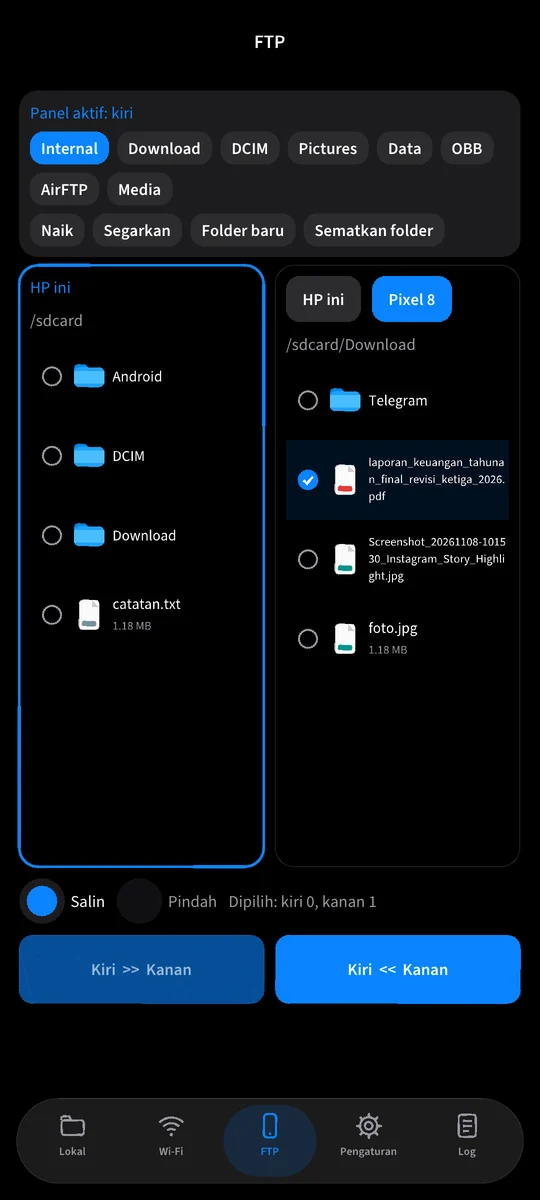
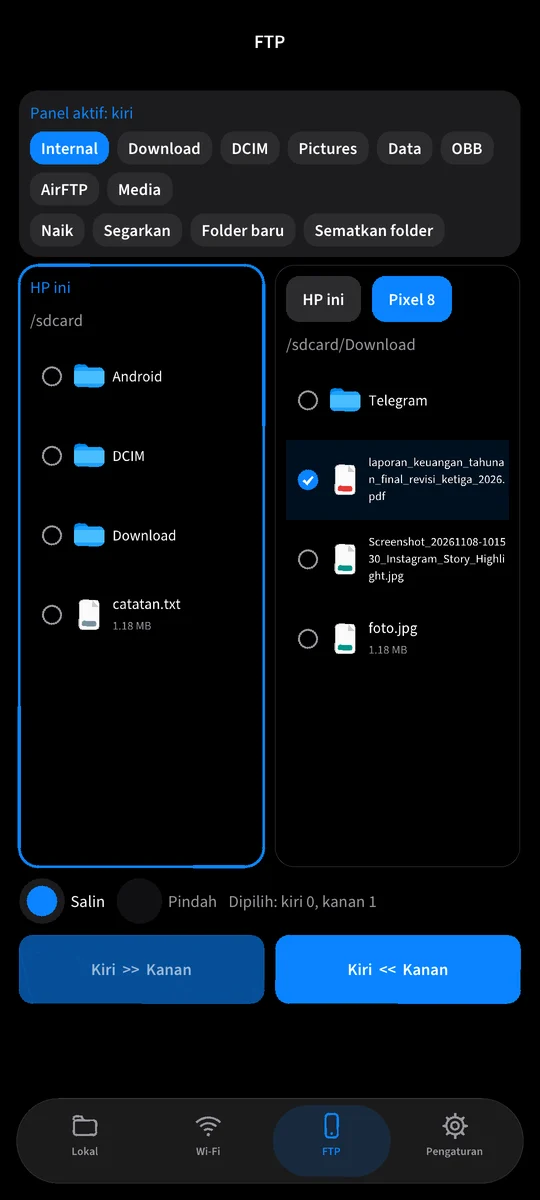
Rilis v1.2: versi, catatan rilis, screenshot docs
Claude-Session: https://claude.ai/code/session_019ZJndj3NzNYWeiDJfLMQmr

diff --git a/app/src/main/cpp/i18n.cpp b/app/src/main/cpp/i18n.cpp
@@ -496,6 +496,10 @@ const Pair kEn[] = {
     {"FTP dua panel, file manager multi-tab, pratinjau gambar, arsip ZIP", "Two-pane FTP, multi-tab file manager, image preview, ZIP archives"},
     {"Pasang APK/XAPK/APKS/APKM, cadangkan aplikasi, akses Android/data lewat Shizuku", "Install APK/XAPK/APKS/APKM, back up apps, reach Android/data through Shizuku"},
     {"Tema terang dan gelap, Bahasa Indonesia dan Inggris", "Light and dark themes, Indonesian and English"},
+    {"Dialog kaca", "Glass dialogs"},
+    {"Menu dan dialog jadi kaca transparan dengan blur", "Menus and dialogs are now translucent glass with blur"},
+    {"Tab Log dan terminal dihapus, bar bawah kini empat tab", "The Log tab and terminal are gone, the bottom bar now has four tabs"},
+    {"Dialog input, konfirmasi, dan pembaruan mengikuti tema terang atau gelap", "Input, confirmation and update dialogs follow the light or dark theme"},
 };
 
 struct Table { const char* code; const char* name; const Pair* pairs; size_t n; };

diff --git a/app/src/main/cpp/native-lib.cpp b/app/src/main/cpp/native-lib.cpp
@@ -22,7 +22,7 @@
 #include "i18n.h"
 
 namespace {
-constexpr const char* kVersion = "v1.1";
+constexpr const char* kVersion = "v1.2";
 
 std::string urlEncode(const std::string& in) {
     static const char* hex = "0123456789ABCDEF";
@@ -339,7 +339,11 @@ const std::vector<Rilis> kRilis = {
       "File manager punya mode daftar dan grid, folder biru, dan kolom cari",
       "Tab file manager jadi chip di bawah header; bilah aksi melayang untuk item terpilih",
       "Menu tekan-lama lebih bulat, tema gelap dirapikan",
-      "Ikon aplikasi baru"}}
+      "Ikon aplikasi baru"}},
+    {"v1.2", "Dialog kaca", "20 Nov 2026",
+     {"Menu dan dialog jadi kaca transparan dengan blur",
+      "Tab Log dan terminal dihapus, bar bawah kini empat tab",
+      "Dialog input, konfirmasi, dan pembaruan mengikuti tema terang atau gelap"}}
 };
 
 const std::vector<const char*> kBatasan = {

diff --git a/README.md b/README.md
@@ -180,7 +180,7 @@ Workflow `.github/workflows/release.yml` membangun APK **bertanda tangan** dan m
    base64 -w0 release.jks
    ```
 2. Tambahkan secrets repo: `KEYSTORE_BASE64`, `KEYSTORE_PASSWORD`, `KEY_ALIAS`, `KEY_PASSWORD`.
-3. Rilis: `git tag v1.1 && git push origin v1.1` (atau jalankan manual dari tab Actions).
+3. Rilis: `git tag v1.2 && git push origin v1.2` (atau jalankan manual dari tab Actions).
 
 `versionName` diambil dari nama tag, `versionCode` dari nomor run. Tag berisi `alpha`, `beta`, atau `rc`
 ditandai pre-release. Catatan rilis diambil dari bagian yang cocok di `CHANGELOG.md`.

diff --git a/CHANGELOG.md b/CHANGELOG.md
@@ -2,6 +2,14 @@
 
 Di dalam aplikasi, riwayat ini ada di Pengaturan > Riwayat perubahan.
 
+## v1.2 (20 Nov 2026)
+
+Dialog kaca.
+
+- Menu tekan-lama dan menu header jadi kaca transparan dengan blur asli (shader GL, dua pass di resolusi seperempat).
+- Dialog Android (input, konfirmasi, properti, pembaruan) memakai latar bulat setengah transparan; blur di belakang jendela aktif di Android 12 ke atas.
+- Tab Log dan terminal dihapus. Bar bawah sekarang empat tab: Lokal, Wi-Fi, FTP, Pengaturan.
+
 ## v1.1 (18 Nov 2026)
 
 Tampilan baru.
